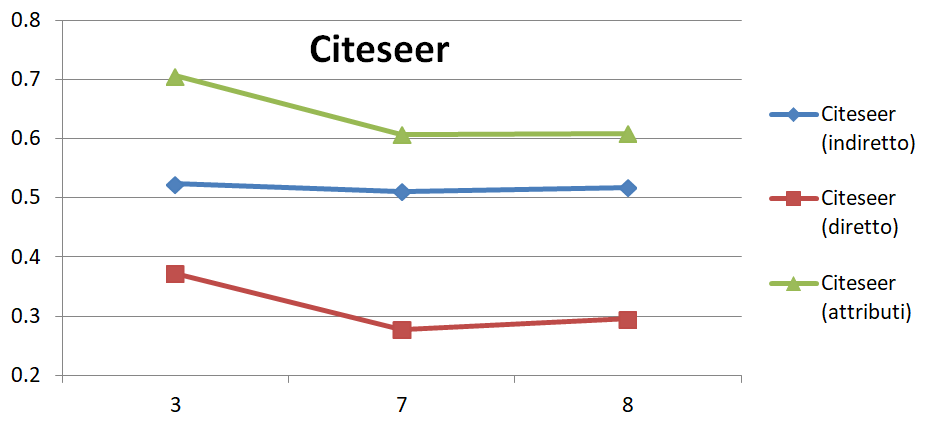
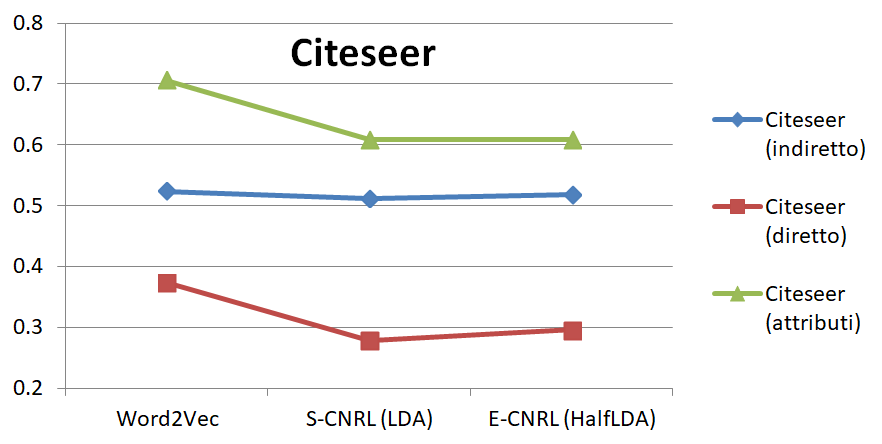
fatto vertex classification

diff --git a/3_esperimenti.tex b/3_esperimenti.tex
@@ -6,17 +6,17 @@ In questa sezione vengono spiegati i dataset utilizzati e le loro origini.\\
 Si possono dividere in due gruppi, non solo perché tali gruppi al loro interno presentino caratteristiche d'affinità, ma anche in quanto i grafi che vi appartengono sono stati utilizzati nel corso del tirocinio per due applicazioni differenti. Nella Tabella~\ref{tab:dati_grafi} sono elencati i dettagli tecnici di ogni dataset.
 %
 \begin{center}
-	\begin{tabular}{|l|r|r|c|c|r|}
+	\begin{tabular}{|l|r|r|r|c|c|r|}
 		\hline
-		grafi&nodi&archi&diretto&etichette&attributi\\
+		grafi&nodi&archi&archi/nodi&diretto&etichette&attributi\\
 		\hline
-		Cora & 2708 & 5429 & sì & 7 & 1433\\
-		Citeseer & 3312 & 4732 & sì & 6 & 3703\\
+		Cora & 2708 & 5429 & 2.0 & sì & 7 & 1433\\
+		Citeseer & 3312 & 4732 & 1.4 & sì & 6 & 3703\\
 		\hline
-		BlogCatalog & 10312 & 333983 & no & 39 & 0\\
-		Gnutella & 6301 & 20777 & no & 0 & 0\\
-		Dolphins & 62 & 159 & no & 0 & 0\\
-		Karate & 35 & 78 & no & 0 & 0\\
+		BlogCatalog & 10312 & 333983 & 32.4 & no & 39 & 0\\
+		Gnutella & 6301 & 20777 & 3.3 & no & 0 & 0\\
+		Dolphins & 62 & 159 & 2.6 & no & 0 & 0\\
+		Karate & 35 & 78 & 2.2 & no & 0 & 0\\
 		\hline
 		\end{tabular}
 		\captionof{table}{Per ogni grafo sono indicate le sue caratteristiche principali}
@@ -40,7 +40,7 @@ Questi quattro grafi vengono presentati in ordine decrescente nel numero dei nod
 %
 \section{Modello di un grafo}
 In questa sezione viene spiegato cosa si intende per modello di un grafo, e perché è tanto importante per gli algoritmi che vi sono costruiti sopra.\\
-Come descritto nel capitolo sull'implementazione è necessario visitare il grafo per generare su di questo dei cammini. Questi vengono presi in input dall'algoritmo di \wv che tramite una rete neurale va a descrivere ogni nodo che s'individua tramite un vettore di valori reali, mentre \cnrl utilizza un metodo alternativo chiamato Latent Dirichlet Allocation (LDA)\cite{LDA}.\\
+Come descritto nel capitolo sull'implementazione è necessario visitare il grafo per generare su di questo dei cammini. Questi vengono presi in input dall'algoritmo di \wv che tramite una rete neurale va a descrivere ogni nodo che s'individua tramite un vettore di valori reali, mentre \cnrl utilizza un metodo alternativo chiamato Latent Dirichlet Allocation (LDA)\cite{LDA} o una sua variante detta HalfLDA.\\
 \begin{figure}[htp]
 	\centering
 	\includegraphics{immagini/punti_modello}
@@ -300,24 +300,35 @@ Mentre nella colonna "Classe" mostra il valore autentico del nodo. Infine nell'u
 Per una valutazione mediante accuratezza è sufficiente calcolare la media aritmetica dell'ultima colonna, ossia $\displaystyle Acc = \frac{1+1+1+1+1}{8} = \frac{5}{8} = 0.625$. Mentre per l'F1-score sarebbe necessario calcolare sensibilità e precisione di ognuna delle 3 classi, riassumerli mediante micro o macro, ed infine arrivare ad un valore con F1-score.
 %
 \subsection{Risultati}
+I grafi scelti per questa applicazione sono Cora (Figura~\ref{fig:VC_cora}) e Citeseer (Figura~\ref{fig:VC_citeseer}) perché fra quelli presentati nella Tabella~\ref{tab:dati_grafi} sono gli unici che sono forniti di attributi sui nodi, e questo permette di mostrare come l'utilizzo del grafo bipartito per l'introduzione degli attributi modifica le prestazioni.
 %
 \begin{figure}[htp]
 	\centering
 	\includegraphics[width=\linewidth]{immagini/VC_cora}
 	\caption{L'andamento del grafo Cora, con 3 differenti algoritmi di creazione del modello e 3 diverse interpretazioni iniziali, valutato mediante l'accuratezza}
-	\label{fig:LP_CN}
+	\label{fig:VC_cora}
 \end{figure}
 %
 \begin{figure}[htp]
 	\centering
 	\includegraphics[width=\linewidth]{immagini/VC_citeseer}
 	\caption{L'andamento del grafo Citeseer, con 3 differenti algoritmi di creazione del modello e 3 diverse interpretazioni iniziali, valutato mediante l'accuratezza}
-	\label{fig:LP_Dolphins}
+	\label{fig:VC_citeseer}
 \end{figure}
 %
+Sull'asse delle ordinate vi sono i valori compresi nell'intervallo $[0, 1]$ misurati mediante la tecnica dell'accuratezza. Mentre sull'asse delle ascisse vi sono i tre algoritmi utilizzati per creare il modello del grafo partendo dai cammini. \wv è il metodo di controllo, mentre S-CNRL e E-CNRL che lavorano rispettivamente con LDA e HalfLDA, sono i nuovi algoritmi proposti. Entrambi per alcune parti continuano ad usare \wv.\\
+Sia Cora che Citeseer sono grafi originariamente diretti (misurazioni rosse), tuttavia si è provato ad interpretarli anche come se fossero indiretti (campionamento blu), l'ultimo andamento è dato dall'introduzione degli attributi (dati verdi).\\
+Ecco alcuni dettagli che emergono dai due grafici:
+\begin{itemize}
+	\item \wv mostra prestazioni, anche se di poco, maggiori delle due alternative che invece tendono ad equivalersi
+	\item la media dei valori delle misurazione nel grafico di Cora~\ref{fig:VC_cora} ($0.696$) rispetto a quella di Citeseer~\ref{fig:VC_citeseer} ($0.491$) è maggiore di circa $\displaystyle \frac{2}{10}$ questo è dovuto anche al fatto che Cora abbia una $\displaystyle densita' = \frac{archi}{nodi}$ maggiore rispetto a Citeseer
+	\item un alta densità degli archi permette di creare molte interazioni fra i nodi e quindi il modello meglio rappresenta il grafo, si noti però che questo non è sempre facile da individuare, qui è presente uno stacco evidente in quanto entrambi i grafi hanno un estremamente bassa densità si dice infatti che sono sparsi
+	\item si è provato ad aumentare la densità considerando ambo i grafi come indiretti (ogni arco indiretto può essere rappresentato come due archi diretti) si ha quindi poco meno di un raddoppio della densità, è infatti possibile che un arco avesse già il suo opposto e quindi non risente del cambiamento.
+	L'effetto per entrambi è stato un innalzamento del valore medio lungo i 3 algoritmi usati
+	\item con il grafo indiretto l'incremento di S-CNRL e E-CNRL è molto maggiore rispetto a quello di \wv questo può indicare, che \wv lavora molto bene con i grafi orientati a dispetto degli altri metodi
+	\item l'introduzione degli attributi tramite il grafo bipartito ha notevolmente cambiato la situazione portando ad un incremento di prestazioni. Questi valori vanno confrontati con i dati del grafo orientato in quanto quello è il valore corretto, i punti blu del grafo non-orientato non sono comparabili in quanto servivano a mostrare come la densità influiva sul risultato tuttavia rappresentano un nuovo grafo diverso dall'originale, e quindi non paragonabile
+\end{itemize}
+%
+\section{Valutazione dell'individuazione di comunità}
 
-%\section{Valutazione dell'individuazione di comunità}
-%
-%
-%
 \end{document}
